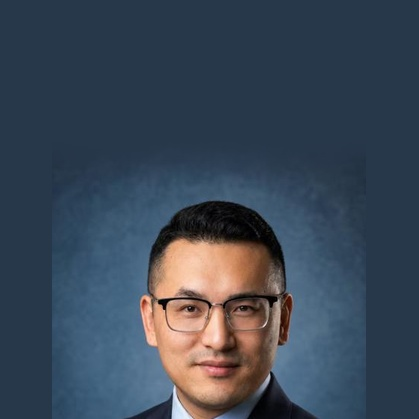
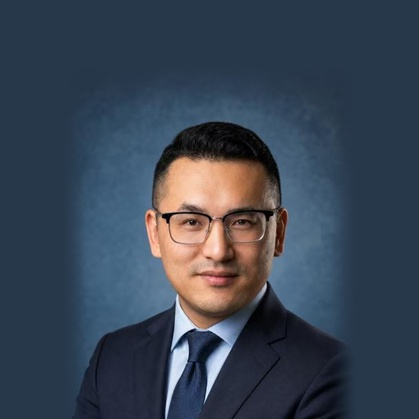
fix(contact): correctly retreat Steven Yang's visual depth using pixel extrapolation to match global head-to-shoulder ratio without blank bottom spaces

diff --git a/contact.html b/contact.html
@@ -134,7 +134,7 @@ tailwind.config = {
       <!-- Expert 3: Steven Yang -->
       <div class="bg-white rounded-2xl border border-slate-200 shadow-xl overflow-hidden flex flex-col sm:flex-row group hover:shadow-2xl hover:-translate-y-2 transition duration-500">
         <div class="sm:w-2/5 shrink-0 relative overflow-hidden bg-slate-100 min-h-[300px] sm:min-h-full">
-          <img src="assets/images/team/team_3.jpeg?v=1787129599" alt="Steven Yang" class="w-full h-full object-cover object-top transition duration-700 group-hover:scale-105"/>
+          <img src="assets/images/team/team_3.jpeg?v=1787132929" alt="Steven Yang" class="w-full h-full object-cover object-top transition duration-700 group-hover:scale-105"/>
         </div>
         <div class="p-6 sm:p-8 flex flex-col justify-between flex-1">
           <div>
